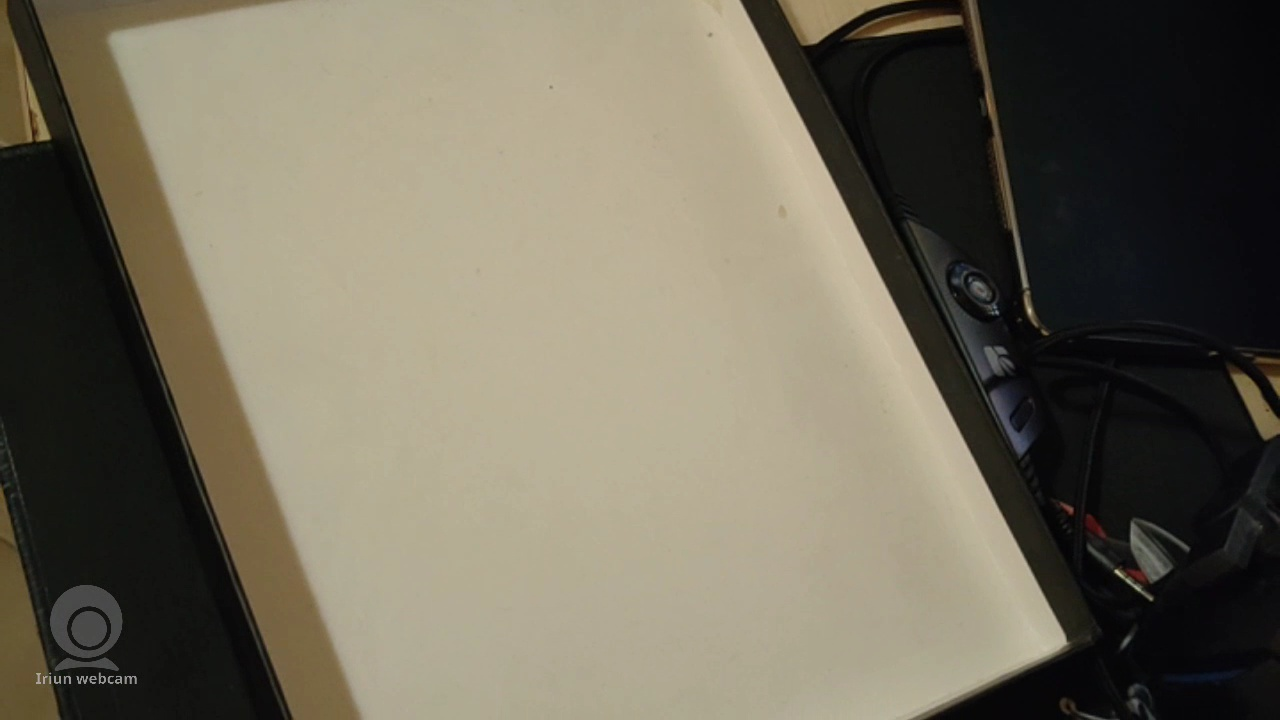
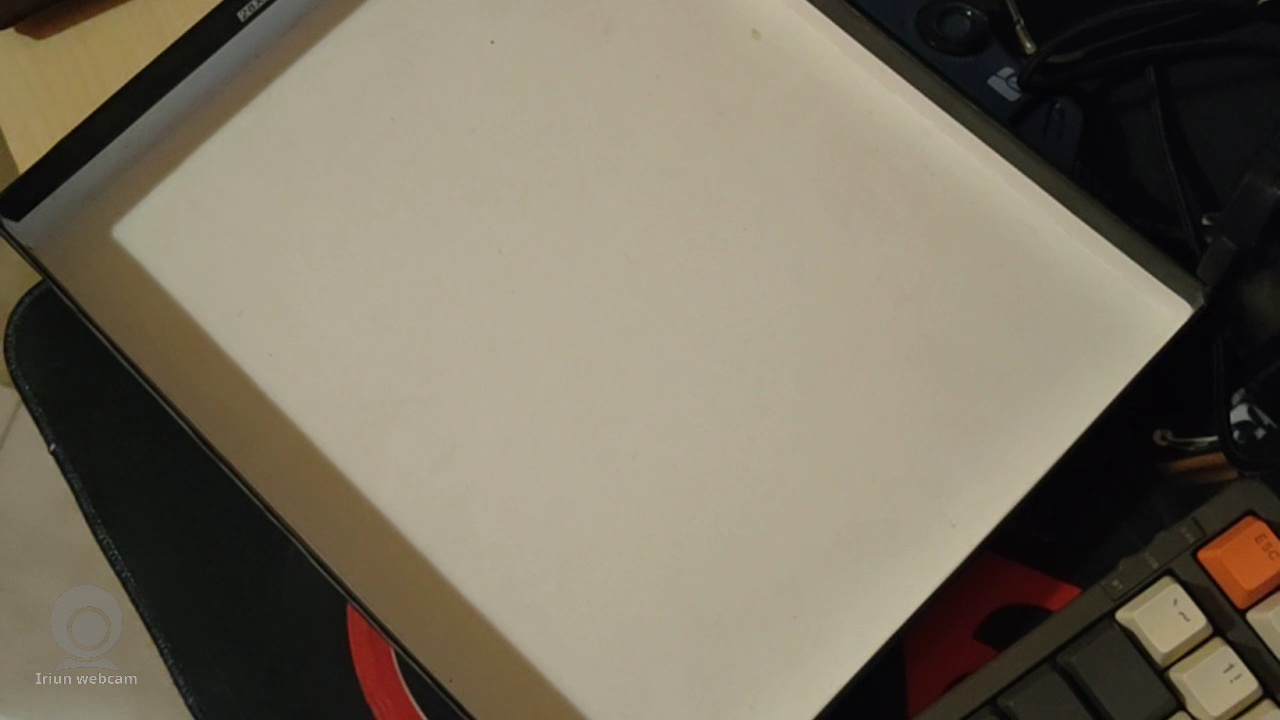
ciao

diff --git a/scattaFotoDIRiferimento.py b/scattaFotoDIRiferimento.py
@@ -1,0 +1,40 @@
+import cv2
+import os
+
+def main():
+    # Otteniamo la cartella in cui si trova questo script
+    base_dir = os.path.dirname(os.path.abspath(__file__))
+    # Definiamo il percorso completo di destinazione per l'immagine
+    percorso_salvataggio = os.path.join(base_dir, "base_vuota.jpeg")
+
+    cap = cv2.VideoCapture(0)
+    if not cap.isOpened():
+        print("Errore: Impossibile accedere alla webcam.")
+        return
+
+    print("\n==================================================")
+    print("📷 INQUADRA LA SCENA VUOTA (Senza cibi e senza le tue mani)")
+    print("👉 Premi la 's' (o la barra spaziatrice) per scattare e salvare la foto.")
+    print("👉 Premi 'q' per uscire senza salvare.")
+    print("==================================================\n")
+
+    while True:
+        ret, frame = cap.read()
+        if not ret:
+            break
+
+        cv2.imshow("Scatta Foto di Riferimento", frame)
+        key = cv2.waitKey(1) & 0xFF
+
+        if key == ord('s') or key == 32: # Tasto 's' o Spazio
+            cv2.imwrite(percorso_salvataggio, frame)
+            print(f"✅ FOTO SALVATA CON SUCCESSO IN:\n{percorso_salvataggio}")
+            break
+        elif key == ord('q'):
+            break
+
+    cap.release()
+    cv2.destroyAllWindows()
+
+if __name__ == "__main__":
+    main()

diff --git a/rilevatore_Oggetti.py b/rilevatore_Oggetti.py
@@ -1,5 +1,6 @@
 import cv2
 import numpy as np
+import os
 
 MIN_AREA = 900
 
@@ -42,6 +43,12 @@ def trova_ritagli_con_sottrazione(img):
     Metodo molto più robusto che usa la sottrazione dello sfondo.
     Richiede una foto di riferimento 'base_vuota.jpeg'.
     """
+    global SFONDO_VUOTO
+    
+    # Se lo sfondo non è ancora caricato, proviamo a cercarlo al volo
+    if SFONDO_VUOTO is None and os.path.exists("base_vuota.jpeg"):
+        SFONDO_VUOTO = cv2.imread("base_vuota.jpeg")
+        
     if SFONDO_VUOTO is None:
         # Se non c'è lo sfondo, torniamo al metodo vecchio e meno affidabile
         return trova_ritagli(img)
@@ -68,7 +75,14 @@ def trova_ritagli_con_sottrazione(img):
     kernel_close = np.ones((12, 12), np.uint8)
     mask = cv2.morphologyEx(mask, cv2.MORPH_CLOSE, kernel_close, iterations=2)
 
-    return _estrai_da_maschera(img, mask)
+    ritagli = _estrai_da_maschera(img, mask)
+    
+    # Se con la sottrazione non troviamo nulla (es. hai caricato una foto demo della galleria)
+    # usiamo il riconoscimento per colore come piano B!
+    if len(ritagli) == 0:
+        ritagli = trova_ritagli(img)
+        
+    return ritagli
 
 
 def trova_ritagli(img):